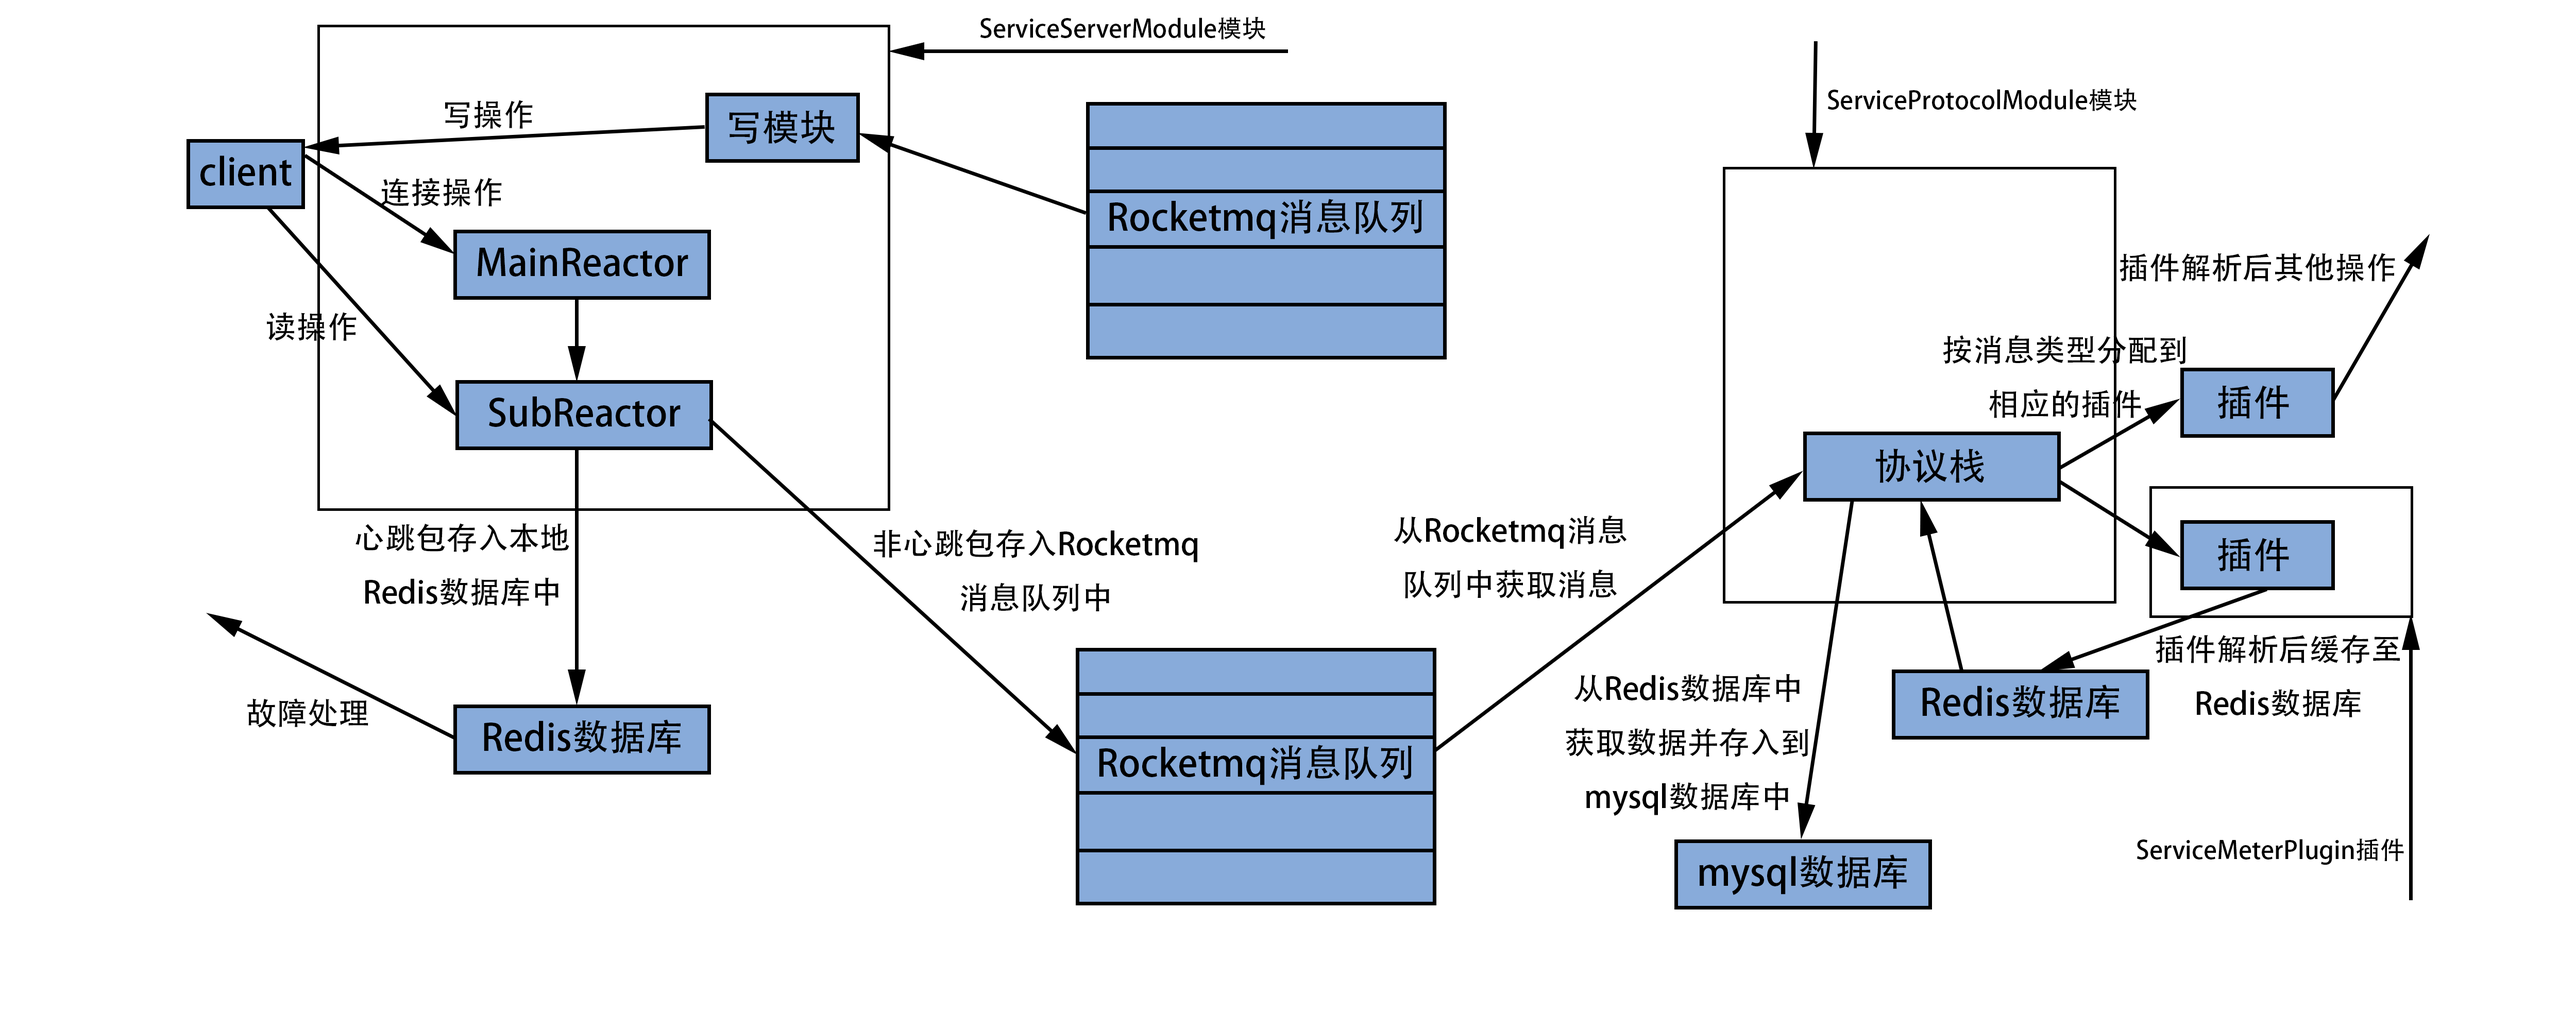
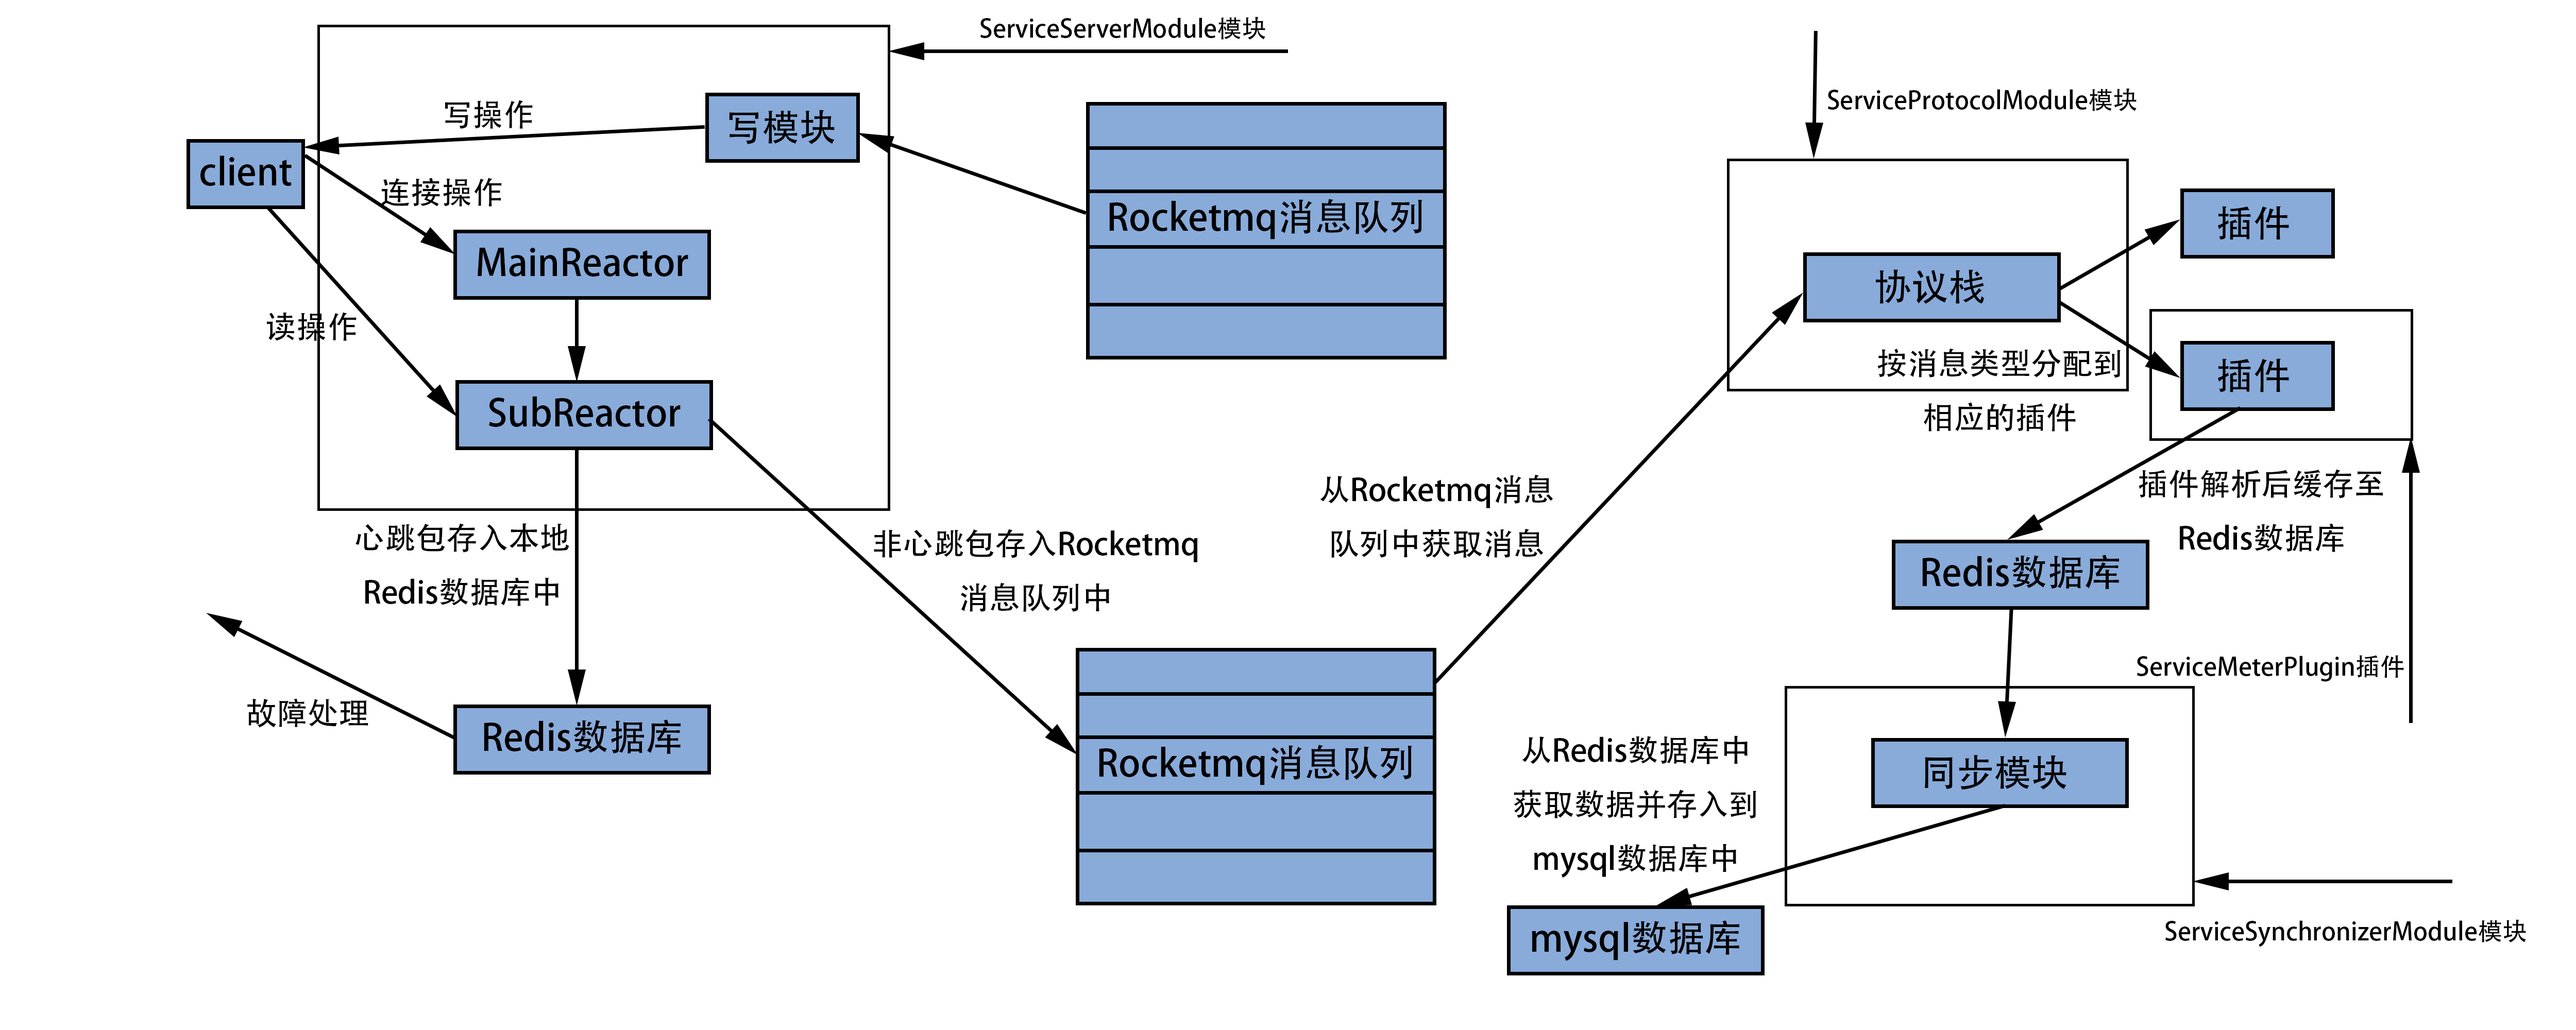
Update README.md.

diff --git a/README.md b/README.md
@@ -1,4 +1,4 @@
-## ServiceSoftware
+## ServiceSoftware
 
 A communicative service software to collect watermeter data with a big quantity.
 
@@ -10,5 +10,40 @@ A communicative service software to collect watermeter data with a big quantity.
 |:----------:|-------------|
 | `DeviceSimulationModule` | 客户设备模拟模块。 |
 | `ServiceServerModule` | 服务器接受信息模块。接收客户端发上来的数据，如果是心跳包，则存入Redis数据库中，非心跳包则存入Rocketmq消息队列中，并从Rocketmq消息队列消费要发送给客户端的消息并发送。 |
-| `ServiceProtocolModule` | 协议栈模块。从Rocketmq消息队列中消费消息，判断消息是否异常，并将消息分配到相应的插件进行解析。另外从Redis中获取缓存数据并异步存入到Mysql数据库中。 |
+| `ServiceProtocolModule` | 协议栈模块。从Rocketmq消息队列中消费消息，判断消息是否异常，并将消息分配到相应的插件进行解析。 |
+| `ServiceSynchronizerModule` | 同步模块。从Redis中获取缓存数据并存入到Mysql数据库中。 |
 | `ServiceMeterPluginDemo` | 插件模块。将消息进行解析，解析后的数据提供给其他模块进行操作，或者存入Redis数据库中缓存。 |
+
+## 运行
+
+### 运行服务器接受信息模块
+
+先修改配置文件ServiceServerModule/src/main/resources/application.properties中RocketMq的ip地址rocketmq.produce.address和rocketmq.consumer.address，然后编译运行服务器接受信息模块。
+
+    cd ServiceServerModule
+    make clean package -Dmaven.test.skip=true
+    cd target
+    java -jar ServiceServerModule-1.0.0.jar
+
+### 运行协议栈模块
+
+先编译需要用到的插件模块ServiceMeterPluginDemo。
+
+    cd ServiceMeterPluginDemo
+    make clean package -Dmaven.test.skip=true
+
+然后将target目录下生成的jar包放到特定的位置，此位置应与ServiceProtocolModule/plugin.xml中相应的jar的位置对应。再修改配置文件ServiceProtocolModule/src/main/resources/application.properties中RocketMq的ip地址rocketmq.consumer.address，修改plugin.xmlPath为plugin.xml存放的目录，最后编译运行协议栈模块。
+
+    cd ServiceProtocolModule
+    make clean package -Dmaven.test.skip=true
+    cd target
+    java -jar ServiceProtocolModule-1.0.0.jar
+
+### 运行同步模块
+
+先修改配置文件ServiceSynchronizerModule/src/main/resources/mybatis/config.xml中mysql数据库的相应信息，然后编译运行同步模块。
+
+    cd ServiceSynchronizerModule
+    make clean package -Dmaven.test.skip=true
+    cd target
+    java -jar ServiceSynchronizerModule-1.0.0.jar
